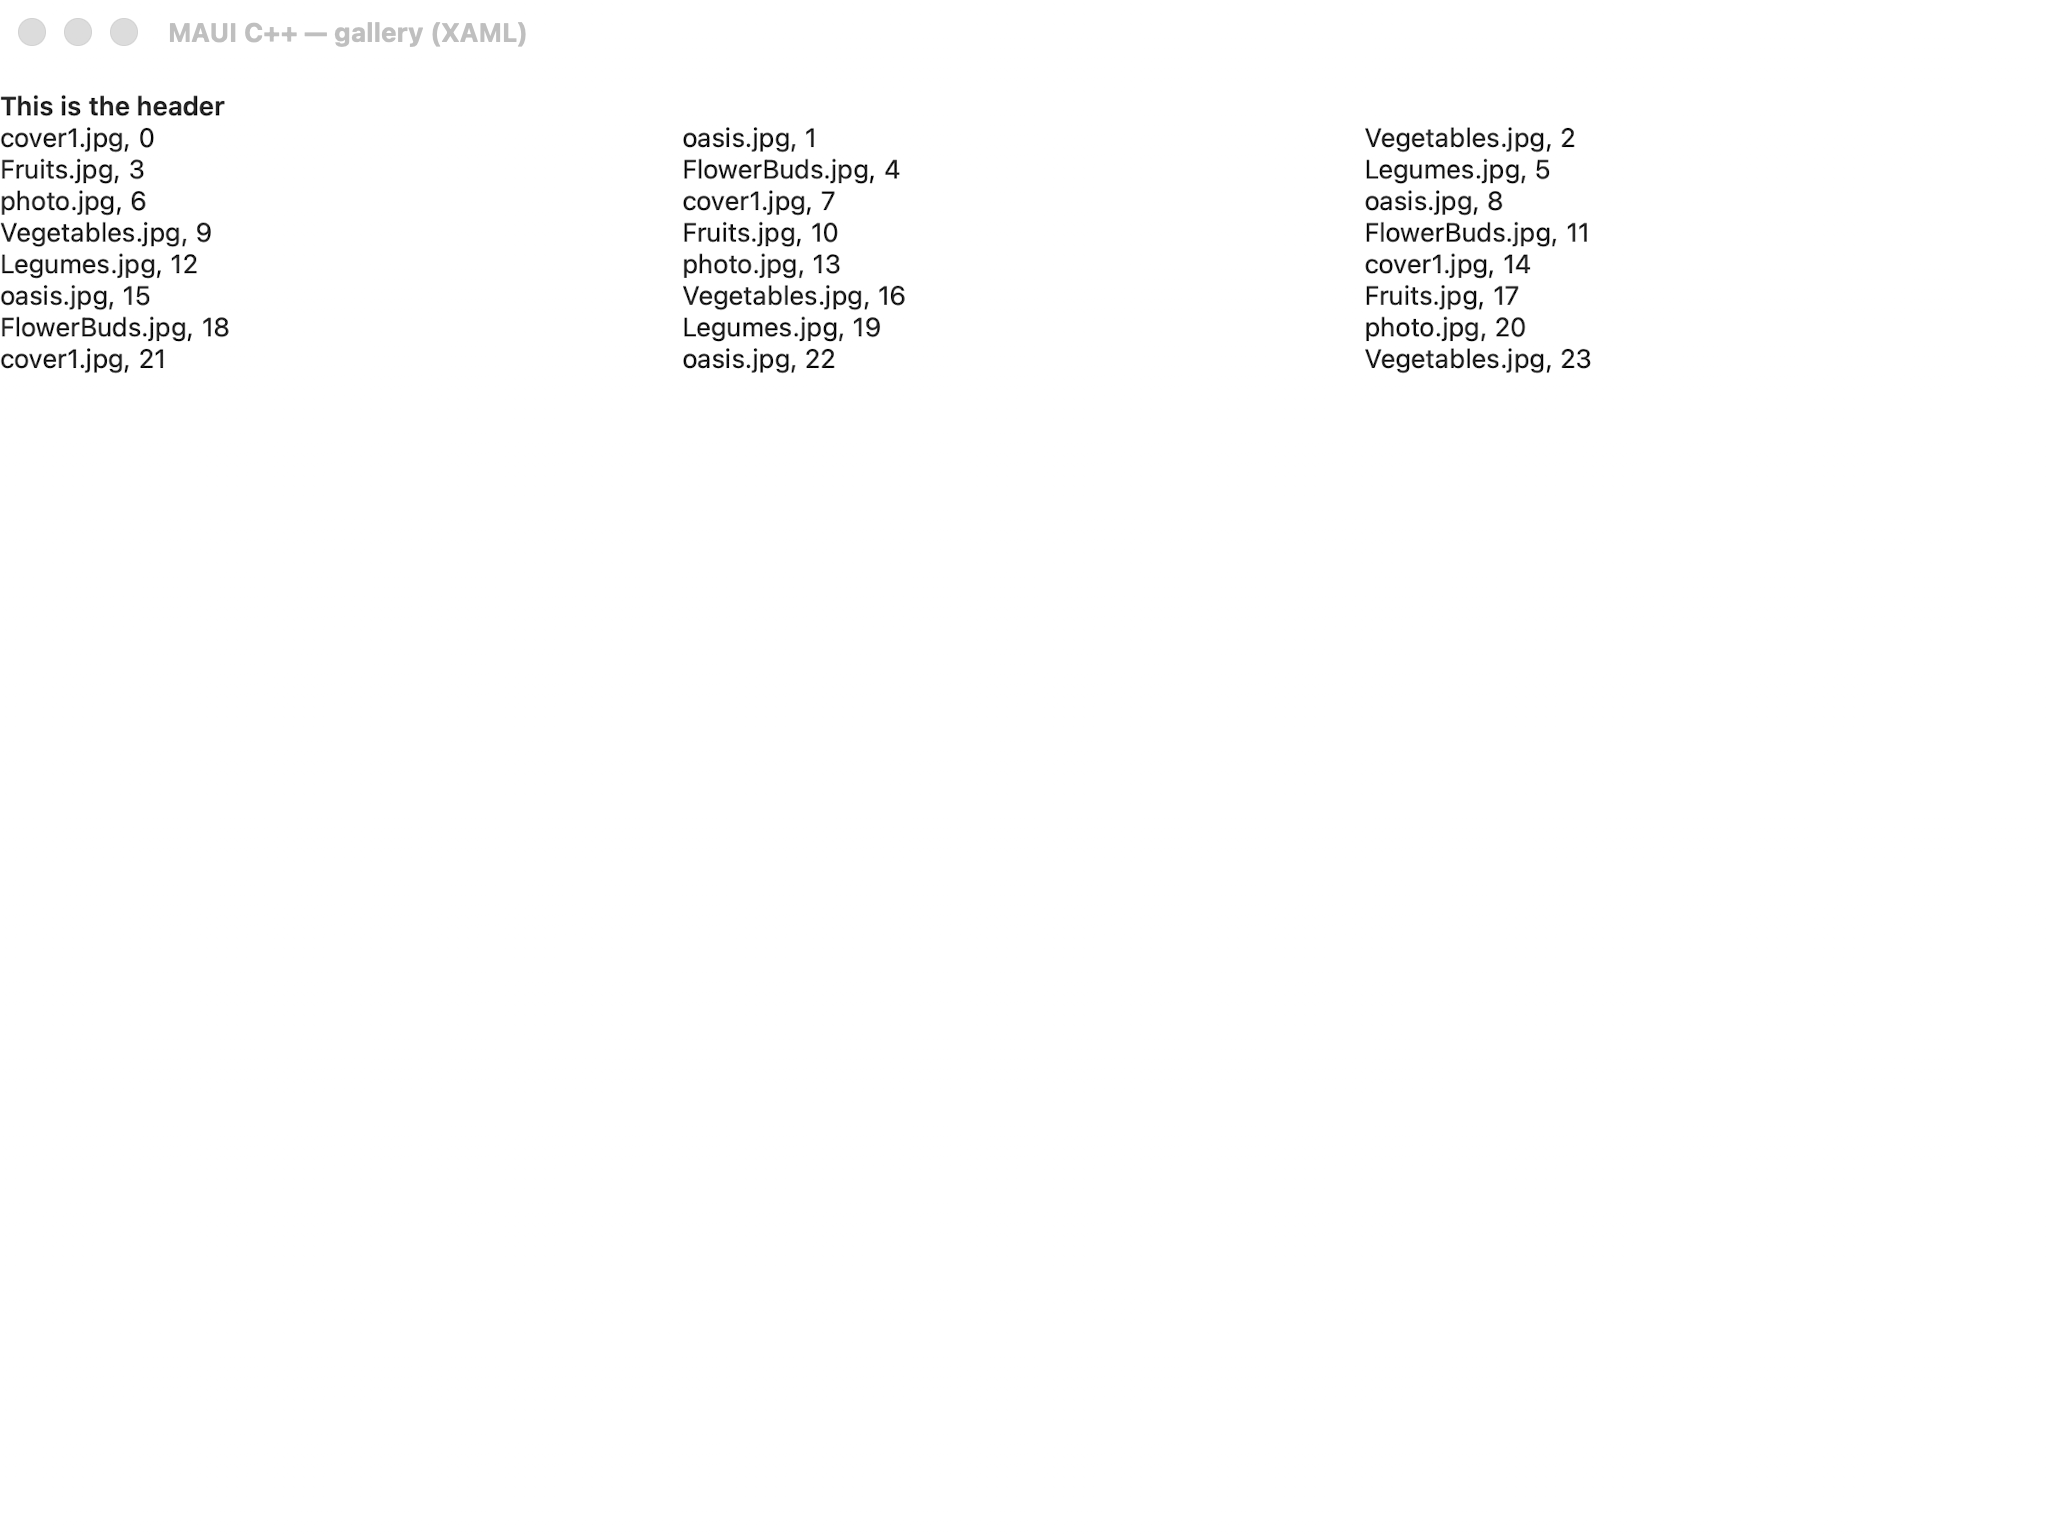
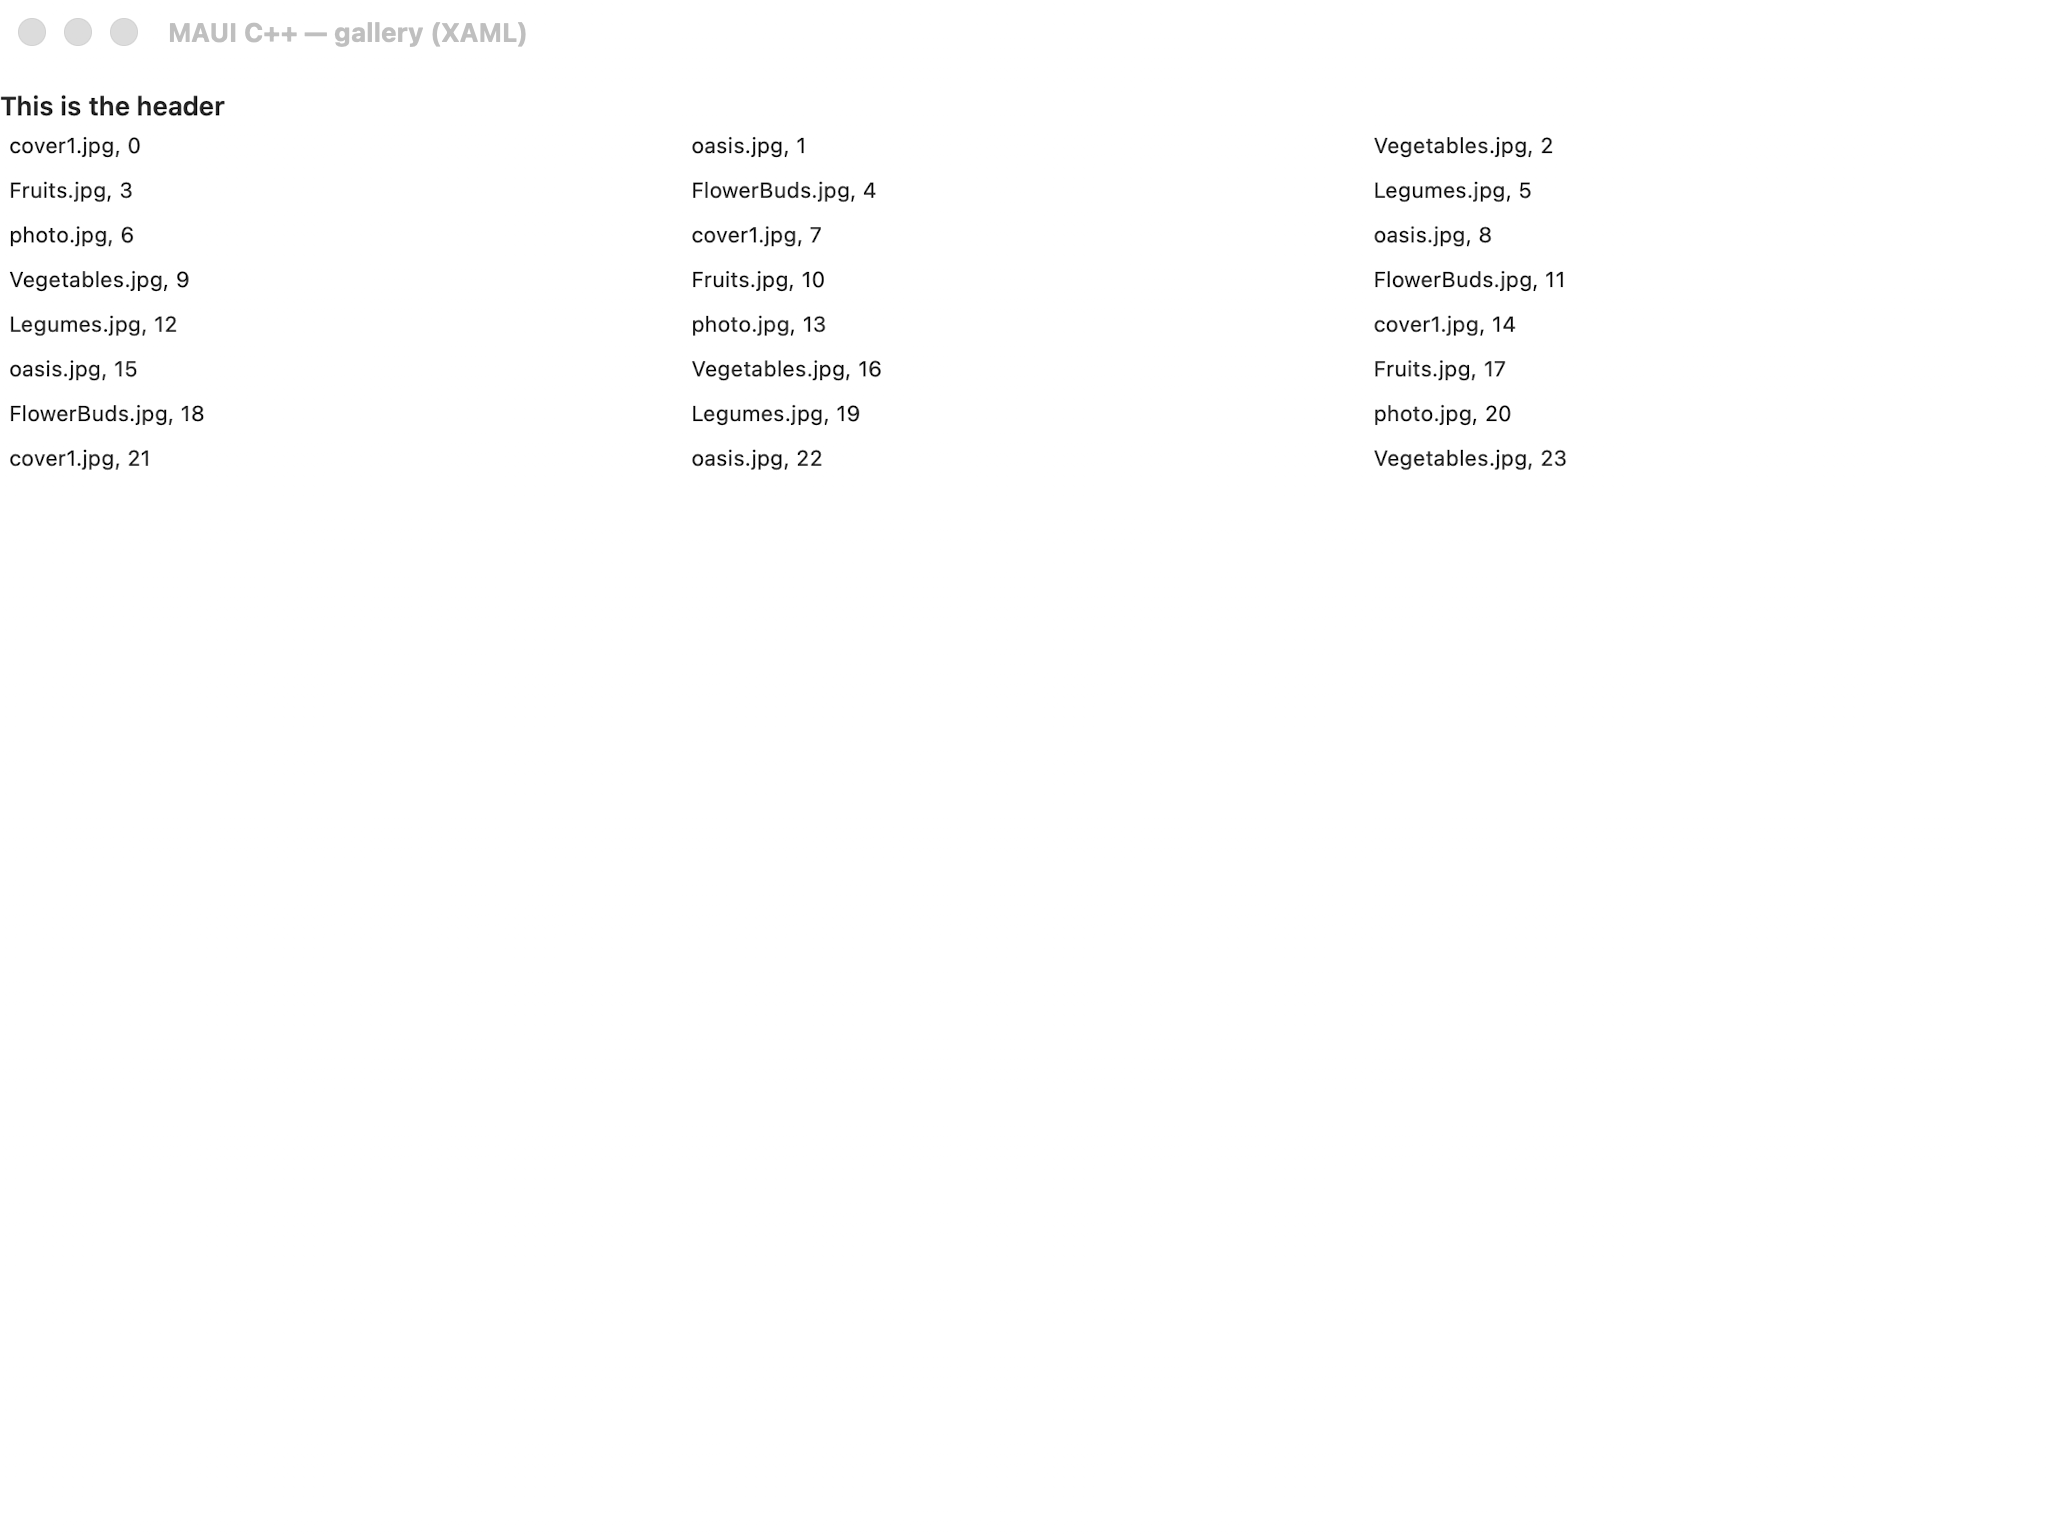
fix(ios/cv): honor cell-root HeightRequest/WidthRequest in CollectionView self-size (maccatalyst)
adaptive_collection's item template root is a <Grid HeightRequest="60" Padding="12"> with a centered
Label. The xaml column collapsed each row to the ~31px label height (items packed top-left) while MAUI/cpp
spread them at 60pt. Root cause: a LAYOUT-rooted cell reports only its children's content extent from the
cross-platform layout::measure (unlike a LEAF root, whose view::measure already folds in Height/WidthRequest).
The CollectionView self-size path (preferredLayoutAttributesFittingAttributes) calls that measure directly,
bypassing the native layout host that would otherwise apply the request.

Fix: after measuring, clamp the freed (scroll) axis up to the cell root's explicit Height/WidthRequest
(view->height()/width(), which return negative when unset -> no-op). Conservative max() never shrinks a
cell below its content, so leaf cells and no-request cells are unaffected.

adaptive_collection xaml red->green: rows now 92px-spaced == MAUI (SSIM 0.989 light / 0.989 dark, was ~0.66).
Regression-checked collectionview (0.94), basic_grouping/grid_grouping (unchanged), header_footer (0.88) —
none changed. Headless collection_view tests 55/55 green.

NOTE: the deeper root cause is layout::measure omitting resolve_size_request (unlike leaf/box/swipe/scroll
view measure); a global fix has higher blast radius (native-host double-apply risk) and is deferred to a
supervised session. This targeted CV-cell clamp is the safe subset.

Changed region(s): [[0.6562, 0.0625, 0.7812, 0.3125], [0.3125, 0.0625, 0.4375, 0.3125], [0.0, 0.0625, 0.0938, 0.3125]]

diff --git a/port/cpp/src/platform/ios/collection_view_handler.mm b/port/cpp/src/platform/ios/collection_view_handler.mm
@@ -248,13 +248,31 @@ namespace
     const double width_constraint = vertical ? frame.size.width : std::numeric_limits<double>::infinity();
     const double height_constraint = vertical ? std::numeric_limits<double>::infinity() : frame.size.height;
     const maui::graphics::size measured = view->measure(width_constraint, height_constraint);
+    // Honor an explicit HeightRequest/WidthRequest on the cell ROOT. MAUI's TemplatedCell measures the
+    // outer content view, whose DesiredSize already folds in Height/WidthRequest; a LEAF cell root
+    // (view::measure) does the same in the port. But a LAYOUT-rooted cell (e.g. an item template whose
+    // root is a `<Grid HeightRequest="60">`) reports only its children's content extent from the
+    // cross-platform layout::measure — the native layout host would apply the request on the normal path,
+    // but this CV self-size path bypasses it. Clamp so the cell never sizes below its requested extent
+    // (e.g. adaptive_collection's 60pt rows instead of collapsing to the ~20pt label height). Unset
+    // requests return negative from width()/height(), so the clamp is a no-op there.
     if (vertical)
     {
-        frame.size.height = static_cast<CGFloat>(std::ceil(measured.height));
+        double h = std::ceil(measured.height);
+        if (view->height() >= 0.0)
+        {
+            h = std::max(h, std::ceil(view->height()));
+        }
+        frame.size.height = static_cast<CGFloat>(h);
     }
     else
     {
-        frame.size.width = static_cast<CGFloat>(std::ceil(measured.width));
+        double w = std::ceil(measured.width);
+        if (view->width() >= 0.0)
+        {
+            w = std::max(w, std::ceil(view->width()));
+        }
+        frame.size.width = static_cast<CGFloat>(w);
     }
     layoutAttributes.frame = frame;
     return layoutAttributes;
